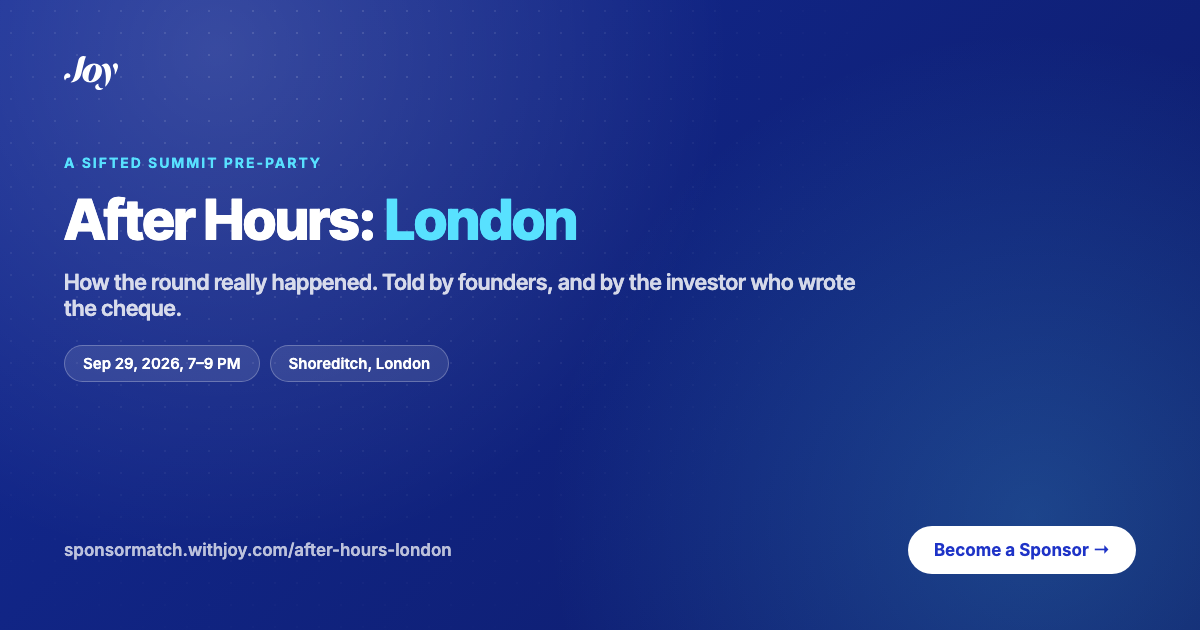
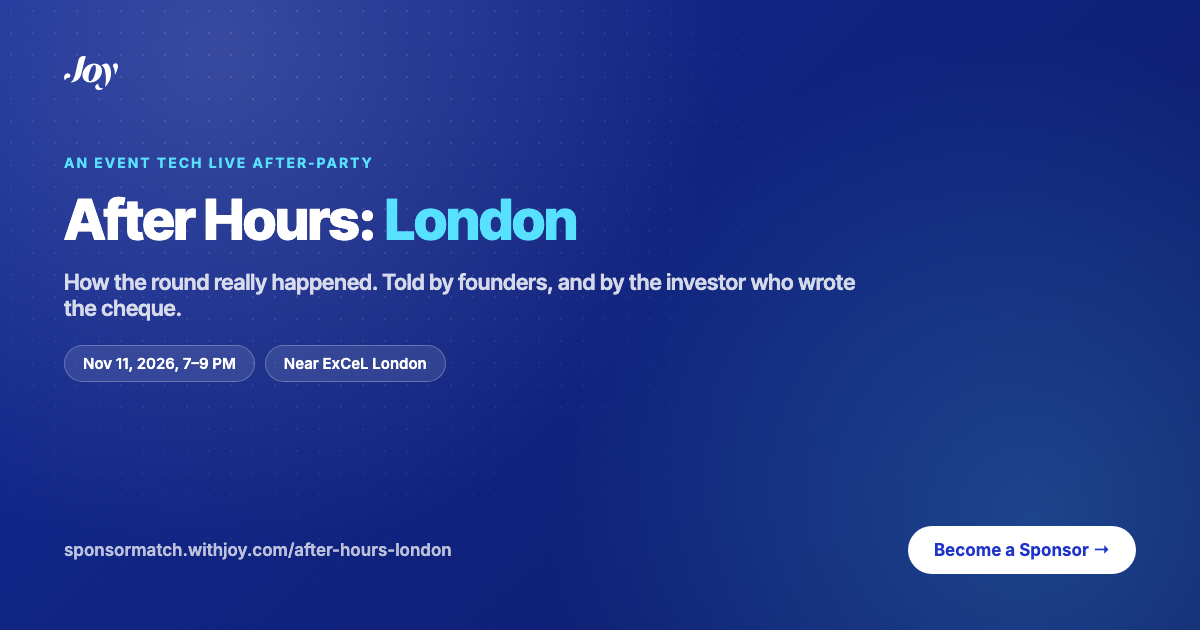
Reschedule After Hours: London to Nov 11, reframe as Event Tech Live after-party, add Sima Parekh
Date moves from Sep 29 to Nov 11, 2026 (still 7-9 PM) due to panel
scheduling. The event is no longer tied to Sifted Summit; it's now
framed as an Event Tech Live after-party, closing out day one of that
show (Nov 11-12 at ExCeL London) rather than a pre-party the night
before. Updated everywhere this appears: eyebrow tags, About section,
audience labels, "why sponsor" copy, meta/OG descriptions, and the
main landing page's "Coming up" tile.

Venue is unconfirmed again now that the event moved away from
Shoreditch, so all location references (chips, detail-card rows,
attendee FAQ) go back to "Near ExCeL London (venue TBA)", linked to
eventtechlive.com instead of the old Callooh Callay booking. Attendee
FAQ dress code and getting-there answers rewritten for the new
ExCeL-area context (DLR stations instead of Shoreditch tube stops).
Hero/photo-header alt text no longer claims Shoreditch specifically,
though the photos themselves are still generic London imagery, not
ExCeL-area shots -- flagging that the visuals may want updating once
new photos are available.

Added Sima Parekh (Senior Associate, Mastercard Start Path) as the
third fireside chat speaker on both pages, with her photo and a short
bio built from what was provided. No LinkedIn URL was given for her,
so that link is omitted for now.

Regenerated both branded OG/Twitter card thumbnails with the new
date, "Event Tech Live After-Party" eyebrow, and "Near ExCeL London"
location.

Changed region(s): [[0.0617, 0.5429, 0.37, 0.6032], [0.0617, 0.2413, 0.3083, 0.2714]]

diff --git a/after-hours-london-attendees.html b/after-hours-london-attendees.html
@@ -4,19 +4,19 @@
 <meta charset="UTF-8">
 <meta name="viewport" content="width=device-width, initial-scale=1.0">
 <title>After Hours: London | Joy</title>
-<meta name="description" content="How the round really happened, told by founders and by the investor who wrote the cheque. Register to attend After Hours: London, a Sifted Summit pre-party in Shoreditch.">
+<meta name="description" content="How the round really happened, told by founders and by the investor who wrote the cheque. Register to attend After Hours: London, an Event Tech Live after-party near ExCeL London.">
 
 <meta property="og:type" content="website">
 <meta property="og:url" content="https://sponsormatch.withjoy.com/after-hours-london-attendees">
 <meta property="og:title" content="After Hours: London | Joy">
-<meta property="og:description" content="How the round really happened, told by founders and by the investor who wrote the cheque. Register to attend After Hours: London, a Sifted Summit pre-party in Shoreditch.">
+<meta property="og:description" content="How the round really happened, told by founders and by the investor who wrote the cheque. Register to attend After Hours: London, an Event Tech Live after-party near ExCeL London.">
 <meta property="og:image" content="https://sponsormatch.withjoy.com/og-after-hours-london-attendees.png">
 <meta property="og:image:width" content="1200">
 <meta property="og:image:height" content="630">
 
 <meta name="twitter:card" content="summary_large_image">
 <meta name="twitter:title" content="After Hours: London | Joy">
-<meta name="twitter:description" content="How the round really happened, told by founders and by the investor who wrote the cheque. Register to attend After Hours: London, a Sifted Summit pre-party in Shoreditch.">
+<meta name="twitter:description" content="How the round really happened, told by founders and by the investor who wrote the cheque. Register to attend After Hours: London, an Event Tech Live after-party near ExCeL London.">
 <meta name="twitter:image" content="https://sponsormatch.withjoy.com/og-after-hours-london-attendees.png">
 
 <link rel="preconnect" href="https://fonts.googleapis.com">
@@ -399,8 +399,8 @@
   </div>
 
   <div class="photo-header">
-    <img src="https://res.cloudinary.com/irilxier/image/upload/v1788101381/ambitious-studio-rick-barrett-LTIYWSBbhEI-unsplash.jpg" alt="Colourful mural building in Shoreditch, London">
-    <img src="https://res.cloudinary.com/irilxier/image/upload/v1788097309/olga-melnikova-lh1gXjmg4Z0-unsplash.jpg" alt="A red double-decker bus on a London street near Shoreditch">
+    <img src="https://res.cloudinary.com/irilxier/image/upload/v1788101381/ambitious-studio-rick-barrett-LTIYWSBbhEI-unsplash.jpg" alt="Colourful mural building in London">
+    <img src="https://res.cloudinary.com/irilxier/image/upload/v1788097309/olga-melnikova-lh1gXjmg4Z0-unsplash.jpg" alt="A red double-decker bus on a London street">
     <img src="https://res.cloudinary.com/irilxier/image/upload/v1787691685/Screenshot_2026-08-25_at_4.58.40_PM.png" alt="Guests networking at a Joy event">
   </div>
 
@@ -408,13 +408,13 @@
     <div class="wrap">
       <div class="hero-content">
         <div class="event-meta-row">
-          <span class="event-chip"><svg viewBox="0 0 24 24" fill="none" xmlns="http://www.w3.org/2000/svg"><path d="M8 2v4M16 2v4M3.5 9h17M5 5h14a2 2 0 0 1 2 2v12a2 2 0 0 1-2 2H5a2 2 0 0 1-2-2V7a2 2 0 0 1 2-2Z" stroke="currentColor" stroke-width="1.8" stroke-linecap="round" stroke-linejoin="round"/></svg>September 29, 2026, 7&ndash;9 PM</span>
-          <a class="event-chip" href="https://calloohcallaybar.com/" target="_blank" rel="noopener"><svg viewBox="0 0 24 24" fill="none" xmlns="http://www.w3.org/2000/svg"><path d="M12 22s7-7.05 7-12a7 7 0 1 0-14 0c0 4.95 7 12 7 12Z" stroke="currentColor" stroke-width="1.8" stroke-linejoin="round"/><circle cx="12" cy="10" r="2.4" stroke="currentColor" stroke-width="1.8"/></svg>Callooh Callay, Shoreditch</a>
+          <span class="event-chip"><svg viewBox="0 0 24 24" fill="none" xmlns="http://www.w3.org/2000/svg"><path d="M8 2v4M16 2v4M3.5 9h17M5 5h14a2 2 0 0 1 2 2v12a2 2 0 0 1-2 2H5a2 2 0 0 1-2-2V7a2 2 0 0 1 2-2Z" stroke="currentColor" stroke-width="1.8" stroke-linecap="round" stroke-linejoin="round"/></svg>November 11, 2026, 7&ndash;9 PM</span>
+          <a class="event-chip" href="https://eventtechlive.com/" target="_blank" rel="noopener"><svg viewBox="0 0 24 24" fill="none" xmlns="http://www.w3.org/2000/svg"><path d="M12 22s7-7.05 7-12a7 7 0 1 0-14 0c0 4.95 7 12 7 12Z" stroke="currentColor" stroke-width="1.8" stroke-linejoin="round"/><circle cx="12" cy="10" r="2.4" stroke="currentColor" stroke-width="1.8"/></svg>Near ExCeL London</a>
         </div>
-        <span class="eyebrow on-dark">A Sifted Summit pre-party</span>
+        <span class="eyebrow on-dark">An Event Tech Live after-party</span>
         <h1>After Hours: <span class="accent">London</span></h1>
         <p class="tagline">How the round really happened. Told by founders, and by the investor who wrote the cheque.</p>
-        <p class="lead">One hour of the real story behind a round, one hour to meet the people who could fund yours. Founders, operators and investors, cocktails in Shoreditch.</p>
+        <p class="lead">One hour of the real story behind a round, one hour to meet the people who could fund yours. Founders, operators and investors, cocktails near ExCeL London.</p>
         <div class="cta-row">
           <a href="https://withjoy.com/after-hours-london/registration/7f138a5f-f4f5-4c64-9049-db8e7c86eac1?from=registration" class="btn-hero" target="_blank" rel="noopener">Register to Attend</a>
           <a href="/after-hours-london" class="sponsor-nudge">Interested in sponsoring instead? &rarr;</a>
@@ -428,22 +428,22 @@
       <div class="about-grid">
         <div>
           <span class="eyebrow">About the event</span>
-          <h2 class="section-title">A pre-party built for the Sifted Summit crowd.</h2>
-          <p>After Hours: London kicks off the night before Sifted Summit begins, bringing together founders, operators, and investors in Shoreditch for an evening of cocktails and conversation. The night centers on a founder fireside chat, followed by open networking in a relaxed, high-end setting.</p>
+          <h2 class="section-title">An after-party built for the Event Tech Live crowd.</h2>
+          <p>After Hours: London closes out day one of <a href="https://eventtechlive.com/" target="_blank" rel="noopener" style="color:var(--blue);font-weight:600;">Event Tech Live</a>, bringing together founders, operators, and investors near ExCeL London for an evening of cocktails and conversation. The night centers on a founder fireside chat, followed by open networking in a relaxed, high-end setting.</p>
           <p>Come for the story behind the round, stay for the conversations after. Doors open at 7:00 PM and the night wraps by 9:00 PM.</p>
         </div>
         <div class="detail-card">
           <div class="detail-row">
             <svg viewBox="0 0 24 24" fill="none" xmlns="http://www.w3.org/2000/svg"><path d="M8 2v4M16 2v4M3.5 9h17M5 5h14a2 2 0 0 1 2 2v12a2 2 0 0 1-2 2H5a2 2 0 0 1-2-2V7a2 2 0 0 1 2-2Z" stroke="currentColor" stroke-width="1.8" stroke-linecap="round" stroke-linejoin="round"/></svg>
-            <div><div class="label">Date</div><div class="value">September 29, 2026, 7&ndash;9 PM</div></div>
+            <div><div class="label">Date</div><div class="value">November 11, 2026, 7&ndash;9 PM</div></div>
           </div>
           <div class="detail-row">
             <svg viewBox="0 0 24 24" fill="none" xmlns="http://www.w3.org/2000/svg"><path d="M12 22s7-7.05 7-12a7 7 0 1 0-14 0c0 4.95 7 12 7 12Z" stroke="currentColor" stroke-width="1.8" stroke-linejoin="round"/><circle cx="12" cy="10" r="2.4" stroke="currentColor" stroke-width="1.8"/></svg>
-            <div><div class="label">Location</div><div class="value"><a href="https://calloohcallaybar.com/" target="_blank" rel="noopener">Callooh Callay, Shoreditch</a></div></div>
+            <div><div class="label">Location</div><div class="value">Near <a href="https://eventtechlive.com/" target="_blank" rel="noopener">ExCeL London</a> (venue TBA)</div></div>
           </div>
           <div class="detail-row">
             <svg viewBox="0 0 24 24" fill="none" xmlns="http://www.w3.org/2000/svg"><path d="M17 21v-2a4 4 0 0 0-4-4H5a4 4 0 0 0-4 4v2M9 11a4 4 0 1 0 0-8 4 4 0 0 0 0 8ZM23 21v-2a4 4 0 0 0-3-3.87M16 3.13a4 4 0 0 1 0 7.75" stroke="currentColor" stroke-width="1.8" stroke-linecap="round" stroke-linejoin="round"/></svg>
-            <div><div class="label">Who's there</div><div class="value">Founders, operators &amp; investors (Sifted Summit)</div></div>
+            <div><div class="label">Who's there</div><div class="value">Founders, operators &amp; investors (Event Tech Live)</div></div>
           </div>
           <div class="detail-row">
             <svg viewBox="0 0 24 24" fill="none" xmlns="http://www.w3.org/2000/svg"><path d="M18 8a6 6 0 0 0-12 0c0 7-3 9-3 9h18s-3-2-3-9M13.73 21a2 2 0 0 1-3.46 0" stroke="currentColor" stroke-width="1.8" stroke-linecap="round" stroke-linejoin="round"/></svg>
@@ -473,9 +473,11 @@
           <div class="speaker-bio">&nbsp;</div>
           <a class="speaker-linkedin" href="https://www.linkedin.com/in/richiemathews/" target="_blank" rel="noopener">LinkedIn &#8599;</a>
         </div>
-        <div class="speaker-card compact">
-          <div class="speaker-role">Special Guest</div>
-          <div class="speaker-name">Coming soon</div>
+        <div class="speaker-card">
+          <div class="speaker-photo"><img src="https://res.cloudinary.com/irilxier/image/upload/v1790108515/processed-57EAF1AE-945F-4FED-ADF2-788F88FBA166.jpg" alt="Sima Parekh"></div>
+          <div class="speaker-role">Investor</div>
+          <div class="speaker-name">Sima Parekh</div>
+          <div class="speaker-bio">Senior Associate, Mastercard Start Path, backing Open Finance and Small Business fintechs.</div>
         </div>
       </div>
     </div>
@@ -540,15 +542,15 @@
       <div class="faq-card" id="faq-card">
         <div class="faq-item">
           <button class="faq-q" type="button">What's the dress code?<span class="plus">+</span></button>
-          <div class="faq-a"><p>Smart casual. Think what you'd wear out in Shoreditch after work: no suit required, but leave the gym kit at home.</p></div>
+          <div class="faq-a"><p>Smart casual. Think what you'd wear to a nice bar after a day on the show floor: no suit required, but leave the lanyard and gym kit at home.</p></div>
         </div>
         <div class="faq-item">
           <button class="faq-q" type="button">Where exactly is the venue?<span class="plus">+</span></button>
-          <div class="faq-a"><p><a href="https://calloohcallaybar.com/" target="_blank" rel="noopener" style="color:var(--blue);font-weight:600;">Callooh Callay</a>, 65 Rivington Street, London, an award-winning cocktail bar in the heart of Shoreditch.</p></div>
+          <div class="faq-a"><p>We're finalizing the exact venue now. It'll be within walking distance of <a href="https://eventtechlive.com/" target="_blank" rel="noopener" style="color:var(--blue);font-weight:600;">ExCeL London</a>. Registered guests will get the exact address by email closer to the event.</p></div>
         </div>
         <div class="faq-item">
           <button class="faq-q" type="button">Is there parking, or what's the best way to get there?<span class="plus">+</span></button>
-          <div class="faq-a"><p>Shoreditch is well served by public transport, including Shoreditch High Street Overground and Old Street tube, both a short walk from 65 Rivington Street. We'd recommend transit or a taxi over driving.</p></div>
+          <div class="faq-a"><p>The venue will be an easy walk from ExCeL London, which is served by the DLR (Custom House, Prince Regent, and Royal Victoria stations). We'd recommend transit over driving. Full directions will go out with the venue address.</p></div>
         </div>
         <div class="faq-item">
           <button class="faq-q" type="button">What time should I arrive?<span class="plus">+</span></button>

diff --git a/after-hours-london.html b/after-hours-london.html
@@ -4,19 +4,19 @@
 <meta charset="UTF-8">
 <meta name="viewport" content="width=device-width, initial-scale=1.0">
 <title>After Hours: London | Joy</title>
-<meta name="description" content="How the round really happened, told by founders and by the investor who wrote the cheque. A Sifted Summit pre-party in Shoreditch, London.">
+<meta name="description" content="How the round really happened, told by founders and by the investor who wrote the cheque. An Event Tech Live after-party near ExCeL London.">
 
 <meta property="og:type" content="website">
 <meta property="og:url" content="https://sponsormatch.withjoy.com/after-hours-london">
 <meta property="og:title" content="After Hours: London | Joy">
-<meta property="og:description" content="How the round really happened, told by founders and by the investor who wrote the cheque. A Sifted Summit pre-party in Shoreditch, London.">
+<meta property="og:description" content="How the round really happened, told by founders and by the investor who wrote the cheque. An Event Tech Live after-party near ExCeL London.">
 <meta property="og:image" content="https://sponsormatch.withjoy.com/og-after-hours-london.png">
 <meta property="og:image:width" content="1200">
 <meta property="og:image:height" content="630">
 
 <meta name="twitter:card" content="summary_large_image">
 <meta name="twitter:title" content="After Hours: London | Joy">
-<meta name="twitter:description" content="How the round really happened, told by founders and by the investor who wrote the cheque. A Sifted Summit pre-party in Shoreditch, London.">
+<meta name="twitter:description" content="How the round really happened, told by founders and by the investor who wrote the cheque. An Event Tech Live after-party near ExCeL London.">
 <meta name="twitter:image" content="https://sponsormatch.withjoy.com/og-after-hours-london.png">
 
 <link rel="preconnect" href="https://fonts.googleapis.com">
@@ -559,25 +559,25 @@
     <div class="wrap hero-grid">
       <div class="hero-content">
         <div class="event-meta-row">
-          <span class="event-chip"><svg viewBox="0 0 24 24" fill="none" xmlns="http://www.w3.org/2000/svg"><path d="M8 2v4M16 2v4M3.5 9h17M5 5h14a2 2 0 0 1 2 2v12a2 2 0 0 1-2 2H5a2 2 0 0 1-2-2V7a2 2 0 0 1 2-2Z" stroke="currentColor" stroke-width="1.8" stroke-linecap="round" stroke-linejoin="round"/></svg>September 29, 2026, 7&ndash;9 PM</span>
-          <a class="event-chip" href="https://calloohcallaybar.com/" target="_blank" rel="noopener"><svg viewBox="0 0 24 24" fill="none" xmlns="http://www.w3.org/2000/svg"><path d="M12 22s7-7.05 7-12a7 7 0 1 0-14 0c0 4.95 7 12 7 12Z" stroke="currentColor" stroke-width="1.8" stroke-linejoin="round"/><circle cx="12" cy="10" r="2.4" stroke="currentColor" stroke-width="1.8"/></svg>Callooh Callay, Shoreditch</a>
+          <span class="event-chip"><svg viewBox="0 0 24 24" fill="none" xmlns="http://www.w3.org/2000/svg"><path d="M8 2v4M16 2v4M3.5 9h17M5 5h14a2 2 0 0 1 2 2v12a2 2 0 0 1-2 2H5a2 2 0 0 1-2-2V7a2 2 0 0 1 2-2Z" stroke="currentColor" stroke-width="1.8" stroke-linecap="round" stroke-linejoin="round"/></svg>November 11, 2026, 7&ndash;9 PM</span>
+          <a class="event-chip" href="https://eventtechlive.com/" target="_blank" rel="noopener"><svg viewBox="0 0 24 24" fill="none" xmlns="http://www.w3.org/2000/svg"><path d="M12 22s7-7.05 7-12a7 7 0 1 0-14 0c0 4.95 7 12 7 12Z" stroke="currentColor" stroke-width="1.8" stroke-linejoin="round"/><circle cx="12" cy="10" r="2.4" stroke="currentColor" stroke-width="1.8"/></svg>Near ExCeL London</a>
         </div>
-        <span class="eyebrow on-dark">A Sifted Summit pre-party</span>
+        <span class="eyebrow on-dark">An Event Tech Live after-party</span>
         <h1>After Hours: <span class="accent">London</span></h1>
         <p class="tagline">How the round really happened. Told by founders, and by the investor who wrote the cheque.</p>
-        <p class="lead">One hour of the real story behind a round, one hour to meet the people who could fund yours. Founders, operators and investors, cocktails in Shoreditch.</p>
+        <p class="lead">One hour of the real story behind a round, one hour to meet the people who could fund yours. Founders, operators and investors, cocktails near ExCeL London.</p>
         <div class="cta-row">
           <a href="/after-hours-london-application" class="btn-hero">Become a Sponsor</a>
         </div>
       </div>
       <div class="hero-photo-wrap">
         <div class="hero-photo">
-          <img src="https://res.cloudinary.com/irilxier/image/upload/v1788097309/olga-melnikova-lh1gXjmg4Z0-unsplash.jpg" alt="A red double-decker bus on a London street near Shoreditch">
+          <img src="https://res.cloudinary.com/irilxier/image/upload/v1788097309/olga-melnikova-lh1gXjmg4Z0-unsplash.jpg" alt="A red double-decker bus on a London street">
         </div>
         <div class="hero-stat-float">
-          <a class="hstat-location" href="https://calloohcallaybar.com/" target="_blank" rel="noopener">
+          <a class="hstat-location" href="https://eventtechlive.com/" target="_blank" rel="noopener">
             <svg viewBox="0 0 24 24" fill="none" xmlns="http://www.w3.org/2000/svg"><path d="M12 22s7-7.05 7-12a7 7 0 1 0-14 0c0 4.95 7 12 7 12Z" stroke="currentColor" stroke-width="1.8" stroke-linejoin="round"/><circle cx="12" cy="10" r="2.4" stroke="currentColor" stroke-width="1.8"/></svg>
-            <span class="loc-text">Shoreditch</span>
+            <span class="loc-text">ExCeL London</span>
           </a>
         </div>
       </div>
@@ -589,22 +589,22 @@
       <div class="about-grid">
         <div>
           <span class="eyebrow">About the event</span>
-          <h2 class="section-title">A pre-party built for the Sifted Summit crowd.</h2>
-          <p>After Hours: London kicks off the night before Sifted Summit begins, bringing together founders, operators, and investors in Shoreditch for an evening of cocktails and conversation. The night centers on a founder fireside chat, followed by open networking in a relaxed, high-end setting.</p>
+          <h2 class="section-title">An after-party built for the Event Tech Live crowd.</h2>
+          <p>After Hours: London closes out day one of <a href="https://eventtechlive.com/" target="_blank" rel="noopener" style="color:var(--blue);font-weight:600;">Event Tech Live</a>, bringing together founders, operators, and investors near ExCeL London for an evening of cocktails and conversation. The night centers on a founder fireside chat, followed by open networking in a relaxed, high-end setting.</p>
           <p>As a sponsor, your brand is woven into the evening itself: signage and branding on-site, a moment in front of the room, and direct face time with attendees who don't usually take a cold pitch.</p>
         </div>
         <div class="detail-card">
           <div class="detail-row">
             <svg viewBox="0 0 24 24" fill="none" xmlns="http://www.w3.org/2000/svg"><path d="M8 2v4M16 2v4M3.5 9h17M5 5h14a2 2 0 0 1 2 2v12a2 2 0 0 1-2 2H5a2 2 0 0 1-2-2V7a2 2 0 0 1 2-2Z" stroke="currentColor" stroke-width="1.8" stroke-linecap="round" stroke-linejoin="round"/></svg>
-            <div><div class="label">Date</div><div class="value">September 29, 2026, 7&ndash;9 PM</div></div>
+            <div><div class="label">Date</div><div class="value">November 11, 2026, 7&ndash;9 PM</div></div>
           </div>
           <div class="detail-row">
             <svg viewBox="0 0 24 24" fill="none" xmlns="http://www.w3.org/2000/svg"><path d="M12 22s7-7.05 7-12a7 7 0 1 0-14 0c0 4.95 7 12 7 12Z" stroke="currentColor" stroke-width="1.8" stroke-linejoin="round"/><circle cx="12" cy="10" r="2.4" stroke="currentColor" stroke-width="1.8"/></svg>
-            <div><div class="label">Location</div><div class="value"><a href="https://calloohcallaybar.com/" target="_blank" rel="noopener">Callooh Callay, Shoreditch</a></div></div>
+            <div><div class="label">Location</div><div class="value">Near <a href="https://eventtechlive.com/" target="_blank" rel="noopener">ExCeL London</a> (venue TBA)</div></div>
           </div>
           <div class="detail-row">
             <svg viewBox="0 0 24 24" fill="none" xmlns="http://www.w3.org/2000/svg"><path d="M17 21v-2a4 4 0 0 0-4-4H5a4 4 0 0 0-4 4v2M9 11a4 4 0 1 0 0-8 4 4 0 0 0 0 8ZM23 21v-2a4 4 0 0 0-3-3.87M16 3.13a4 4 0 0 1 0 7.75" stroke="currentColor" stroke-width="1.8" stroke-linecap="round" stroke-linejoin="round"/></svg>
-            <div><div class="label">Audience</div><div class="value">Founders, operators &amp; investors (Sifted Summit)</div></div>
+            <div><div class="label">Audience</div><div class="value">Founders, operators &amp; investors (Event Tech Live)</div></div>
           </div>
           <div class="detail-row">
             <svg viewBox="0 0 24 24" fill="none" xmlns="http://www.w3.org/2000/svg"><path d="M12 1v22M17 5H9.5a3.5 3.5 0 0 0 0 7h5a3.5 3.5 0 0 1 0 7H6" stroke="currentColor" stroke-width="1.8" stroke-linecap="round" stroke-linejoin="round"/></svg>
@@ -634,9 +634,11 @@
           <div class="speaker-bio">&nbsp;</div>
           <a class="speaker-linkedin" href="https://www.linkedin.com/in/richiemathews/" target="_blank" rel="noopener">LinkedIn &#8599;</a>
         </div>
-        <div class="speaker-card compact">
-          <div class="speaker-role">Special Guest</div>
-          <div class="speaker-name">Coming soon</div>
+        <div class="speaker-card">
+          <div class="speaker-photo"><img src="https://res.cloudinary.com/irilxier/image/upload/v1790108515/processed-57EAF1AE-945F-4FED-ADF2-788F88FBA166.jpg" alt="Sima Parekh"></div>
+          <div class="speaker-role">Investor</div>
+          <div class="speaker-name">Sima Parekh</div>
+          <div class="speaker-bio">Senior Associate, Mastercard Start Path, backing Open Finance and Small Business fintechs.</div>
         </div>
       </div>
     </div>
@@ -687,7 +689,7 @@
         <div class="card">
           <span class="num">01</span>
           <h3>A captive, curated crowd</h3>
-          <p>Guests are drawn from Sifted Summit's own attendee base: founders, operators, and investors already engaged with Europe's tech scene, not a walk-in crowd.</p>
+          <p>Guests are drawn from Event Tech Live's own attendee base: founders, operators, and investors already in London for the show, not a walk-in crowd.</p>
         </div>
         <div class="card">
           <span class="num">02</span>

diff --git a/after-hours-london-application.html b/after-hours-london-application.html
@@ -4,19 +4,19 @@
 <meta charset="UTF-8">
 <meta name="viewport" content="width=device-width, initial-scale=1.0">
 <title>Sponsor After Hours: London | Joy</title>
-<meta name="description" content="Become a sponsor of After Hours: London, a Sifted Summit pre-party in Shoreditch. Takes about 2 minutes.">
+<meta name="description" content="Become a sponsor of After Hours: London, an Event Tech Live after-party near ExCeL London. Takes about 2 minutes.">
 
 <meta property="og:type" content="website">
 <meta property="og:url" content="https://sponsormatch.withjoy.com/after-hours-london-application">
 <meta property="og:title" content="Sponsor After Hours: London | Joy">
-<meta property="og:description" content="Become a sponsor of After Hours: London, a Sifted Summit pre-party in Shoreditch. Takes about 2 minutes.">
+<meta property="og:description" content="Become a sponsor of After Hours: London, an Event Tech Live after-party near ExCeL London. Takes about 2 minutes.">
 <meta property="og:image" content="https://sponsormatch.withjoy.com/og-after-hours-london.png">
 <meta property="og:image:width" content="1200">
 <meta property="og:image:height" content="630">
 
 <meta name="twitter:card" content="summary_large_image">
 <meta name="twitter:title" content="Sponsor After Hours: London | Joy">
-<meta name="twitter:description" content="Become a sponsor of After Hours: London, a Sifted Summit pre-party in Shoreditch. Takes about 2 minutes.">
+<meta name="twitter:description" content="Become a sponsor of After Hours: London, an Event Tech Live after-party near ExCeL London. Takes about 2 minutes.">
 <meta name="twitter:image" content="https://sponsormatch.withjoy.com/og-after-hours-london.png">
 
 <link rel="preconnect" href="https://fonts.googleapis.com">
@@ -220,7 +220,7 @@
       <!-- Intro -->
       <div class="step active" data-step="intro">
         <div class="center-card">
-          <span class="event-badge">After Hours: London &middot; Sep 29, 2026</span>
+          <span class="event-badge">After Hours: London &middot; Nov 11, 2026</span>
           <h1>Sponsor After Hours: London</h1>
           <p>A few quick questions, then we'll get a call on the calendar to talk through the details before the event.</p>
           <button type="button" class="btn-primary" id="startBtn">Start Application</button>

diff --git a/sponsor-network-landing.html b/sponsor-network-landing.html
@@ -719,9 +719,9 @@
         <a class="coming-card" href="/after-hours-london">
           <div class="coming-text">
             <h2>After Hours: London</h2>
-            <p>A Sifted Summit pre-party: cocktails and a founder fireside chat in Shoreditch, London.</p>
+            <p>An Event Tech Live after-party: cocktails and a founder fireside chat near ExCeL London.</p>
             <div class="coming-tier">Sponsor tiers: &pound;1,000&ndash;&pound;3,000</div>
-            <div class="coming-date">September 29, 2026 &middot; London</div>
+            <div class="coming-date">November 11, 2026 &middot; London</div>
           </div>
           <div class="coming-photo">
             <img src="https://res.cloudinary.com/irilxier/image/upload/v1787689623/benjamin-davies-Oja2ty_9ZLM-unsplash.jpg" alt="London skyline at night">
